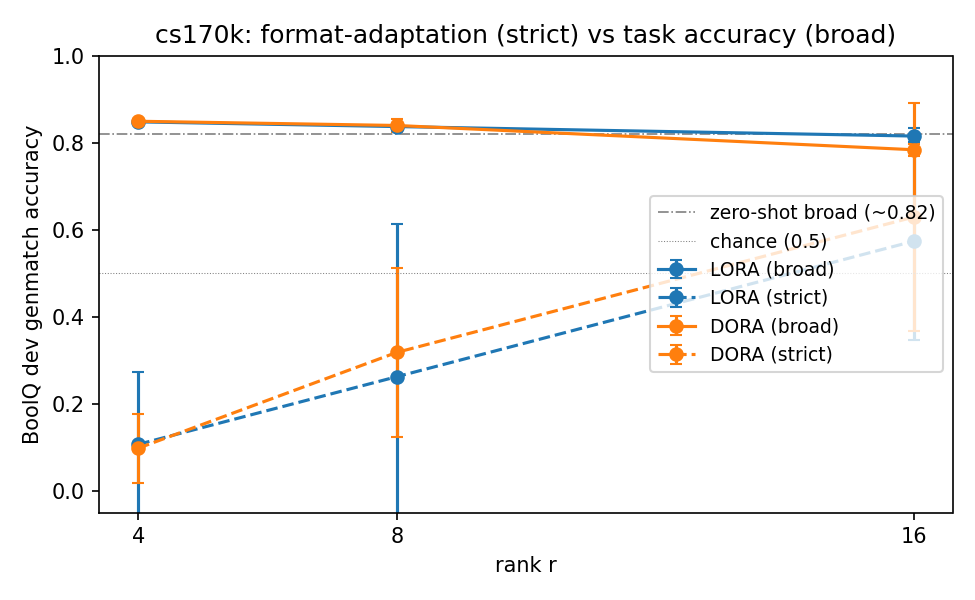
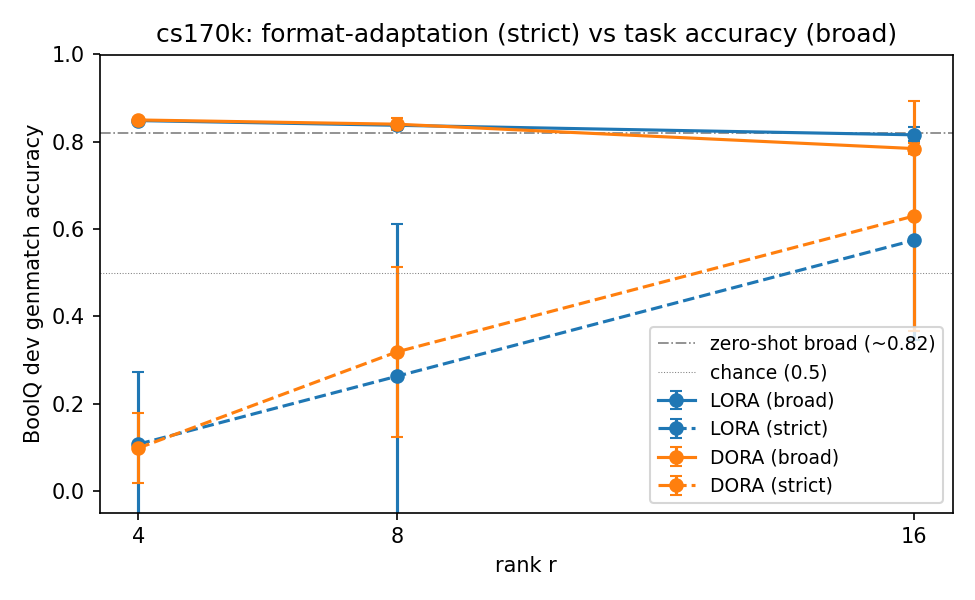
fix: figure legend overlapping

diff --git a/mini-project-DoRA/notebooks/analysis.py b/mini-project-DoRA/notebooks/analysis.py
@@ -118,7 +118,9 @@ if any(k[0] == "cs170k" and "genmatch_strict_mean" in cells[k] for k in cells):
     ax.set_ylabel("BoolQ dev genmatch accuracy")
     ax.set_xticks(RANKS)
     ax.set_ylim(-0.05, 1.0)
-    ax.legend(fontsize=9, loc="center right")
+    # Bottom-right corner sits below all six data lines at r=16 (strict tops at
+    # ~0.63; chance ref at 0.5) so the legend doesn't collide with the lines.
+    ax.legend(fontsize=9, loc="lower right")
     fig.tight_layout()
     fig.savefig(FIGDIR / "format_adaptation.png", dpi=150)
 
